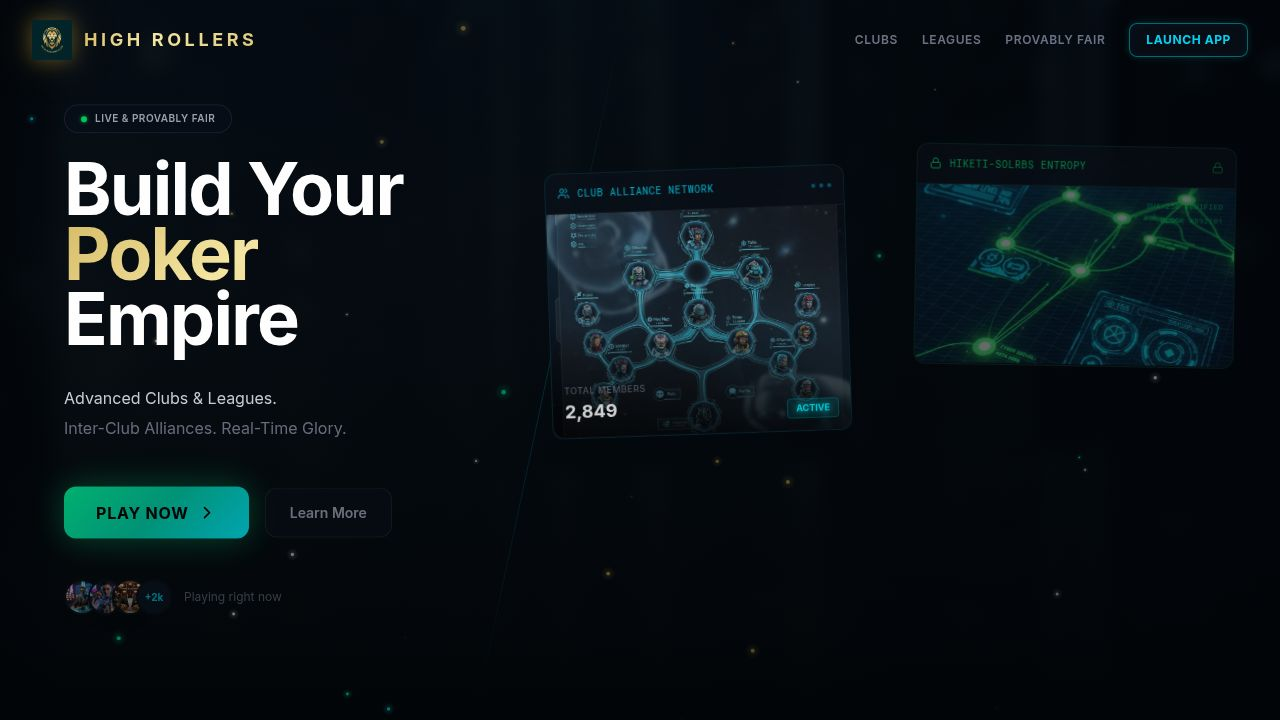
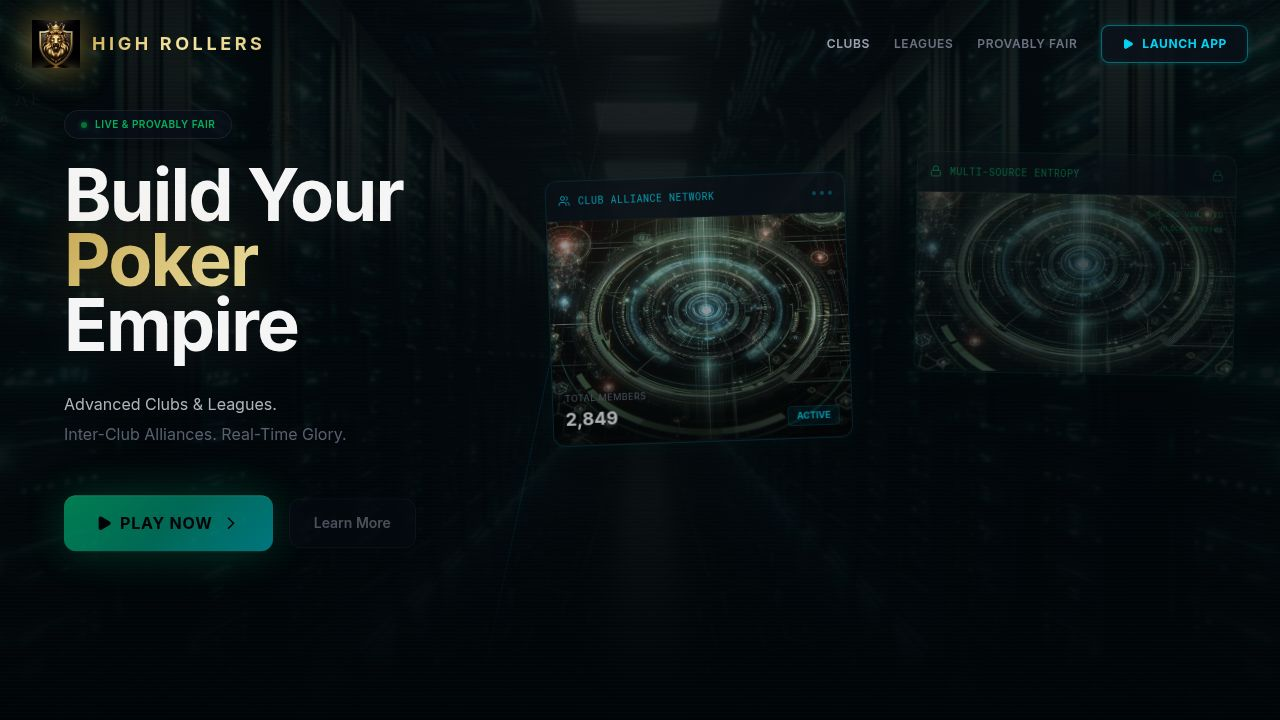
Update visual assets for a more cinematic and refined poker experience
Replaced various image assets across the client application with higher-quality, cinematic versions to enhance the visual appeal and user experience. This includes updating logos, backgrounds, avatars, and table textures.

Replit-Commit-Author: Agent
Replit-Commit-Session-Id: cafe265c-3351-4ddf-a667-2f1410f4f7a0
Replit-Commit-Checkpoint-Type: full_checkpoint
Replit-Commit-Event-Id: 7eacd23a-866a-43b6-97eb-7a68e325c5eb
Replit-Commit-Screenshot-Url: https://storage.googleapis.com/screenshot-production-us-central1/8c87489e-6792-4f73-b45b-a4feac30fa04/cafe265c-3351-4ddf-a667-2f1410f4f7a0/6LfVTqV
Replit-Helium-Checkpoint-Created: true

diff --git a/client/src/pages/Landing.tsx b/client/src/pages/Landing.tsx
@@ -3,15 +3,14 @@ import { motion } from "framer-motion";
 import { Lock, Smartphone, Bitcoin, CreditCard, Cpu, Users, Shield, ChevronRight, Play } from "lucide-react";
 import { MatrixRain } from "../components/MatrixRain";
 
-// Assets
-import lionLogo from "@assets/generated_images/Golden_Lion_Logo_for_Poker_Table_961614b0.png";
-import serverBg from "@assets/generated_images/blurred_server_room_background.png";
-import entropyHud from "@assets/generated_images/holographic_network_graph_green.png";
-import allianceHud from "@assets/generated_images/holographic_player_alliance_ui.png";
-import avatar1 from "@assets/generated_images/cyberpunk_poker_player_avatar_1.png";
-import avatar2 from "@assets/generated_images/cyberpunk_poker_player_avatar_2.png";
-import avatar3 from "@assets/generated_images/cyberpunk_poker_player_avatar_3.png";
-import feltTexture from "@assets/generated_images/Dark_Teal_Poker_Felt_Texture_83ec2760.png";
+// Cinematic DALL-E 3 assets
+import lionLogo from "@assets/generated_images/lion_crest_gold_emblem.png";
+import serverBg from "@assets/generated_images/cinematic_server_room_bg.png";
+import entropyHud from "@assets/generated_images/holographic_hud_overlay.png";
+import allianceHud from "@assets/generated_images/holographic_hud_overlay.png";
+import avatar1 from "@assets/generated_images/player_seated_cyberpunk_1.png";
+import avatar2 from "@assets/generated_images/player_seated_cyberpunk_2.png";
+import avatar3 from "@assets/generated_images/player_seated_cyberpunk_3.png";
 
 export default function Landing() {
   return (

diff --git a/client/src/pages/Game.tsx b/client/src/pages/Game.tsx
@@ -20,14 +20,14 @@ import { SoundProvider, useSoundEngine } from "@/lib/sound-context";
 import { soundEngine } from "@/lib/sound-engine";
 import { ShieldCheck, Volume2, VolumeX, Settings, Trophy, ArrowLeft, Bot, Wifi, WifiOff, Users } from "lucide-react";
 
-// Assets
-import lionLogo from "@assets/generated_images/Golden_Lion_Logo_for_Poker_Table_961614b0.png";
-import feltTexture from "@assets/generated_images/Dark_Teal_Poker_Felt_Texture_83ec2760.png";
-import luxuryRail from "@assets/generated_images/luxury_poker_table_surface.png";
-import avatar1 from "@assets/generated_images/cyberpunk_poker_player_avatar_1.png";
-import avatar2 from "@assets/generated_images/cyberpunk_poker_player_avatar_2.png";
-import avatar3 from "@assets/generated_images/cyberpunk_poker_player_avatar_3.png";
-import avatar4 from "@assets/generated_images/cyberpunk_poker_player_avatar_4.png";
+// Cinematic DALL-E 3 assets
+import lionLogo from "@assets/generated_images/lion_crest_gold_emblem.png";
+import feltTexture from "@assets/generated_images/poker_table_top_cinematic.png";
+import luxuryRail from "@assets/generated_images/poker_table_top_cinematic.png";
+import avatar1 from "@assets/generated_images/player_seated_cyberpunk_1.png";
+import avatar2 from "@assets/generated_images/player_seated_cyberpunk_2.png";
+import avatar3 from "@assets/generated_images/player_seated_cyberpunk_3.png";
+import avatar4 from "@assets/generated_images/player_seated_cyberpunk_4.png";
 
 const HERO_ID = "player-1";
 

diff --git a/client/src/pages/Shop.tsx b/client/src/pages/Shop.tsx
@@ -7,13 +7,13 @@ import {
   Download, Tag, Zap, Gem
 } from "lucide-react";
 
-import avatar1 from "@assets/generated_images/cyberpunk_poker_player_avatar_1.png";
-import avatar2 from "@assets/generated_images/cyberpunk_poker_player_avatar_2.png";
-import avatar3 from "@assets/generated_images/cyberpunk_poker_player_avatar_3.png";
-import avatar4 from "@assets/generated_images/cyberpunk_poker_player_avatar_4.png";
-import entropyHud from "@assets/generated_images/holographic_entropy_network_hud.png";
-import allianceHud from "@assets/generated_images/holographic_player_alliance_ui.png";
-import feltTexture from "@assets/generated_images/Dark_Teal_Poker_Felt_Texture_83ec2760.png";
+import avatar1 from "@assets/generated_images/player_seated_cyberpunk_1.png";
+import avatar2 from "@assets/generated_images/player_seated_cyberpunk_2.png";
+import avatar3 from "@assets/generated_images/player_seated_cyberpunk_3.png";
+import avatar4 from "@assets/generated_images/player_seated_cyberpunk_4.png";
+import entropyHud from "@assets/generated_images/holographic_hud_overlay.png";
+import allianceHud from "@assets/generated_images/marketplace_item_armor.png";
+import feltTexture from "@assets/generated_images/poker_table_top_cinematic.png";
 
 const TABS = ["Avatars", "Table Themes", "Emotes", "Premium"];
 

diff --git a/client/src/pages/ClubDashboard.tsx b/client/src/pages/ClubDashboard.tsx
@@ -8,12 +8,12 @@ import {
   Target, Gamepad2, Coins, ChevronRight, X, Bookmark
 } from "lucide-react";
 
-import avatar1 from "@assets/generated_images/cyberpunk_poker_player_avatar_1.png";
-import avatar2 from "@assets/generated_images/cyberpunk_poker_player_avatar_2.png";
-import avatar3 from "@assets/generated_images/cyberpunk_poker_player_avatar_3.png";
-import avatar4 from "@assets/generated_images/cyberpunk_poker_player_avatar_4.png";
-import feltTexture from "@assets/generated_images/Dark_Teal_Poker_Felt_Texture_83ec2760.png";
-import lionLogo from "@assets/generated_images/Golden_Lion_Logo_for_Poker_Table_961614b0.png";
+import avatar1 from "@assets/generated_images/player_seated_cyberpunk_1.png";
+import avatar2 from "@assets/generated_images/player_seated_cyberpunk_2.png";
+import avatar3 from "@assets/generated_images/player_seated_cyberpunk_3.png";
+import avatar4 from "@assets/generated_images/player_seated_cyberpunk_4.png";
+import feltTexture from "@assets/generated_images/poker_table_top_cinematic.png";
+import lionLogo from "@assets/generated_images/lion_crest_gold_emblem.png";
 
 // Mock tournament data
 const TOURNAMENTS = [

diff --git a/client/src/components/poker/AvatarSelect.tsx b/client/src/components/poker/AvatarSelect.tsx
@@ -2,11 +2,11 @@ import { useState } from "react";
 import { motion, AnimatePresence } from "framer-motion";
 import { ChevronRight, Zap, Shield, Crown, Skull, Ghost, Bot } from "lucide-react";
 
-import lionLogo from "@assets/generated_images/Golden_Lion_Logo_for_Poker_Table_961614b0.png";
-import avatar1 from "@assets/generated_images/cyberpunk_poker_player_avatar_1.png";
-import avatar2 from "@assets/generated_images/cyberpunk_poker_player_avatar_2.png";
-import avatar3 from "@assets/generated_images/cyberpunk_poker_player_avatar_3.png";
-import avatar4 from "@assets/generated_images/cyberpunk_poker_player_avatar_4.png";
+import lionLogo from "@assets/generated_images/lion_crest_gold_emblem.png";
+import avatar1 from "@assets/generated_images/player_seated_cyberpunk_1.png";
+import avatar2 from "@assets/generated_images/player_seated_cyberpunk_2.png";
+import avatar3 from "@assets/generated_images/player_seated_cyberpunk_3.png";
+import avatar4 from "@assets/generated_images/player_seated_cyberpunk_4.png";
 
 export interface AvatarOption {
   id: string;

diff --git a/client/src/pages/Members.tsx b/client/src/pages/Members.tsx
@@ -7,10 +7,10 @@ import {
   CheckCircle, XCircle, Gamepad2, Coins, Target
 } from "lucide-react";
 
-import avatar1 from "@assets/generated_images/cyberpunk_poker_player_avatar_1.png";
-import avatar2 from "@assets/generated_images/cyberpunk_poker_player_avatar_2.png";
-import avatar3 from "@assets/generated_images/cyberpunk_poker_player_avatar_3.png";
-import avatar4 from "@assets/generated_images/cyberpunk_poker_player_avatar_4.png";
+import avatar1 from "@assets/generated_images/player_seated_cyberpunk_1.png";
+import avatar2 from "@assets/generated_images/player_seated_cyberpunk_2.png";
+import avatar3 from "@assets/generated_images/player_seated_cyberpunk_3.png";
+import avatar4 from "@assets/generated_images/player_seated_cyberpunk_4.png";
 
 // Mock members data (will be replaced with API)
 const MEMBERS = [

diff --git a/client/src/components/DashboardLayout.tsx b/client/src/components/DashboardLayout.tsx
@@ -8,8 +8,8 @@ import {
   BarChart3, Coins, LogOut, User, ChevronRight
 } from "lucide-react";
 
-import lionLogo from "@assets/generated_images/Golden_Lion_Logo_for_Poker_Table_961614b0.png";
-import serverBg from "@assets/generated_images/blurred_server_room_background.png";
+import lionLogo from "@assets/generated_images/lion_crest_gold_emblem.png";
+import serverBg from "@assets/generated_images/cinematic_server_room_bg.png";
 
 interface NavItem {
   icon: any;
